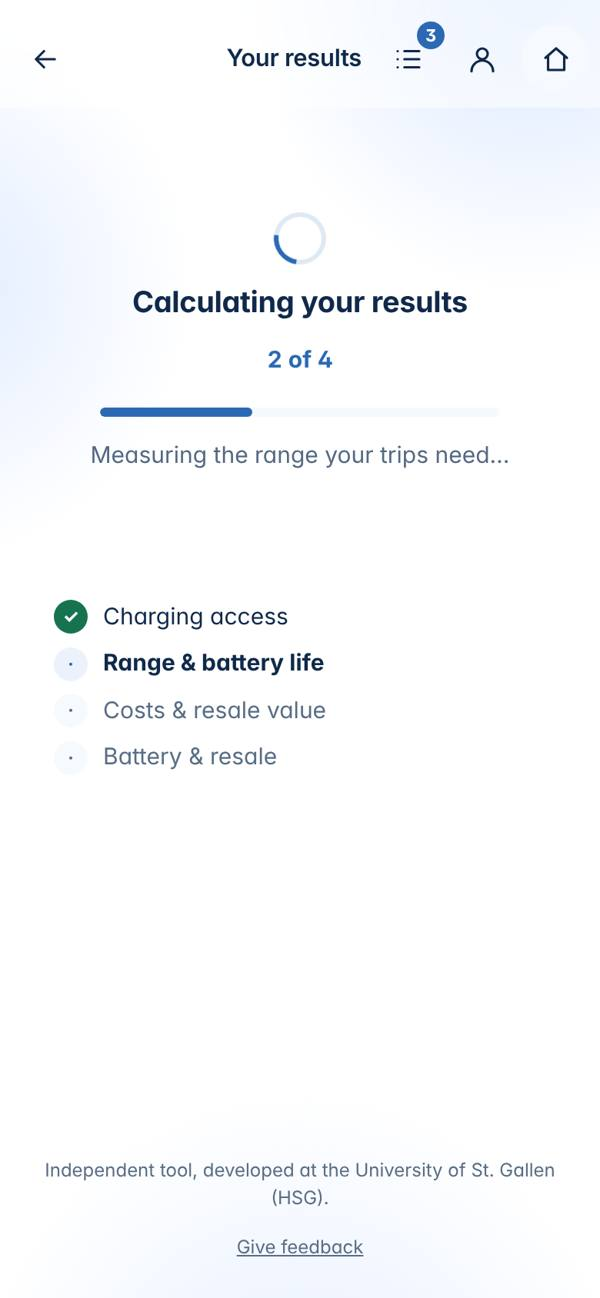
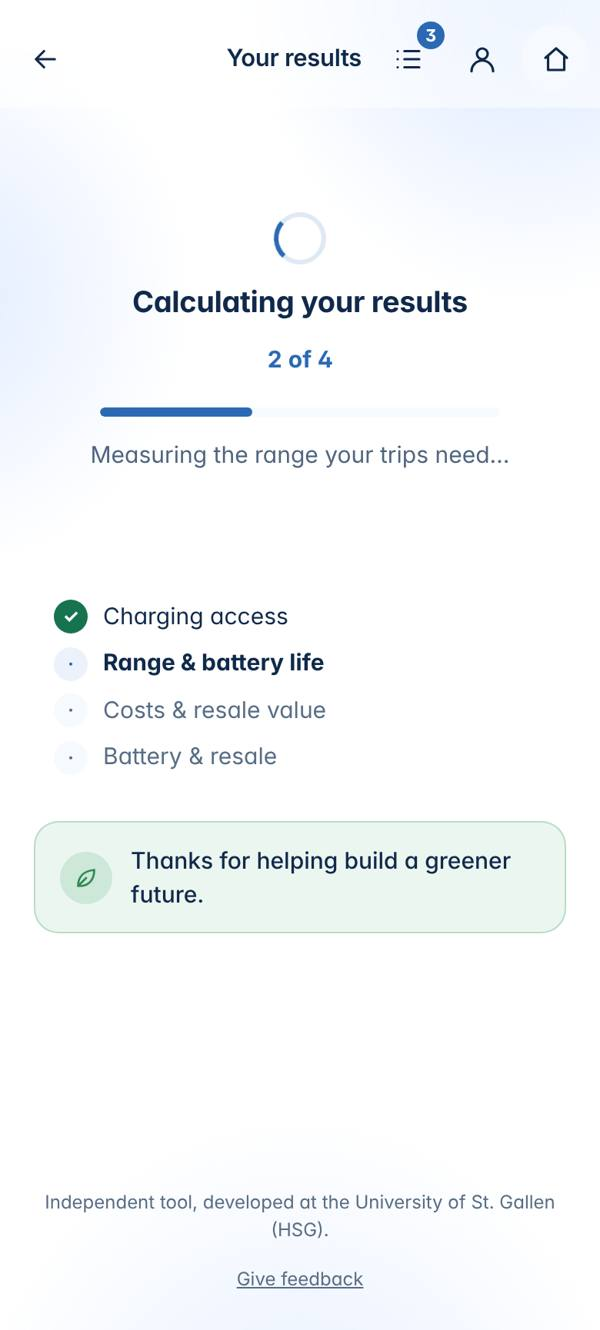
V8.10: positive leaf note while calculating (Christian)
Claude-Session: https://claude.ai/code/session_01QfXkZPsFQrszAqzjhxXKhu

diff --git a/public/index.html b/public/index.html
@@ -1142,6 +1142,12 @@ details.editp > summary { font-size: 15.5px; }
 .action .go { margin-left: auto; color: var(--accent); display: grid; place-items: center; }
 .action .go svg { width: 16px; height: 16px; }
 /* loading */
+.greennote { display: flex; gap: 12px; align-items: center; margin: 8px auto 0; max-width: 460px; padding: 14px 16px; border-radius: 16px; background: color-mix(in srgb, #2e9d5b 9%, var(--card, #fff)); border: 1px solid color-mix(in srgb, #2e9d5b 28%, transparent); }
+.greennote .gi { flex: none; width: 34px; height: 34px; border-radius: 50%; display: grid; place-items: center; background: color-mix(in srgb, #2e9d5b 16%, transparent); color: #2e8a52; }
+.greennote .gi svg { width: 18px; height: 18px; }
+.greennote p { margin: 0; font-size: 15px; line-height: 1.45; color: var(--ink); font-weight: 550; text-align: left; transition: opacity .26s ease; }
+.greennote p b { color: var(--ink); font-weight: 650; }
+.greennote p.out { opacity: 0; }
 .loading .lcount { margin: 0; font-weight: 650; color: var(--accent); font-variant-numeric: tabular-nums; }
 .loading .lphrase { margin: 0; color: var(--ink-2); min-height: 1.4em; animation: lfade 2.4s var(--ease) infinite alternate; }
 @keyframes lfade { from { opacity: .55; } to { opacity: 1; } }
@@ -2205,6 +2211,16 @@ const QUICK_SESSION = { B2: { charging_interest: ['everyday'] }, B6: { battery_e
 const LOAD_MORE = ['Calculating your result…', 'Still on it, this one takes a few seconds…', 'Almost there…'];
 /** While a topic is calculated the sentence under the title changes every few seconds (no re-render). */
 const Waiting = { t: null, i: 0, start(el) { clearInterval(Waiting.t); Waiting.i = 0; Waiting.t = setInterval(() => { const p = document.querySelector('.lphrase'); if (!p || !['loading', 'batch'].includes(ui.view)) return clearInterval(Waiting.t); p.textContent = LOAD_MORE[Math.min(Waiting.i++, LOAD_MORE.length - 1)]; }, 4500); } };
+/** Christian 19.11: something positive while it calculates – leaf note, changes every few seconds. */
+// the status stays above (spinner, topic, step); the box carries only the positive line, so it never says "almost done" too early
+const GREEN_NOTES = ['Thanks for helping build a greener future.', 'Every EV on the road makes the air a little cleaner.', 'Great that you’re thinking green!'];
+const GreenNote = { i: 0, t: null,
+  el() { const n = GREEN_NOTES[GreenNote.i % GREEN_NOTES.length]; queueMicrotask(GreenNote.start);
+    return h('div', { class: 'greennote', id: 'greennote', 'aria-live': 'polite' }, h('span', { class: 'gi' }, icon('leaf')), h('p', null, n)); },
+  start() { if (GreenNote.t) return; GreenNote.t = setInterval(() => {
+    const box = document.getElementById('greennote'); if (!box || !['loading', 'batch'].includes(ui.view)) { clearInterval(GreenNote.t); GreenNote.t = null; return; }
+    GreenNote.i++; const n = GREEN_NOTES[GreenNote.i % GREEN_NOTES.length]; const p = box.querySelector('p');
+    p.classList.add('out'); setTimeout(() => { p.textContent = n; p.classList.remove('out'); }, 260); }, 4200); } };
 const LOAD_PHRASE = { B1: 'Measuring the range your trips need…', B2: 'Looking for charging stations near you…', B3: 'Adding up what the car costs you…', B4: 'Matching car sizes to your trips…', B6: 'Forecasting how the battery ages…', B7: 'Counting the CO2 over the whole life of the car…' };
 async function runAll(codes, opts = {}) {
   const myRev = ++store.rev;
@@ -2240,7 +2256,7 @@ function viewBatch() {
     b.writing ? h('p', { class: 'lphrase' }, 'Writing your summary…') : cur ? h('p', { class: 'lphrase' }, LOAD_PHRASE[cur] || 'One moment…') : null),
     h('ul', { class: 'batchlist' }, b.codes.map((c) => h('li', { class: b.done.includes(c) ? (b.need.includes(c) ? 'need' : 'on') : c === cur ? 'now' : '' },
       h('span', null, b.done.includes(c) ? (b.need.includes(c) ? '!' : '✓') : '·'), topicTitle(c)))),
-    null);
+    GreenNote.el());
 }
 
 /* ---------- loading / error ---------- */
@@ -2256,7 +2272,7 @@ function viewLoading() {
   return h('div', { class: 'col' }, h('div', { class: 'loading', role: 'status', 'aria-live': 'polite' },
     h('div', { class: 'spinner' }), h('h2', null, 'Calculating ' + (b ? b.title.toLowerCase() : 'your result')),
     h('p', { class: 'lphrase', id: 'load-msg' }, LOAD_PHRASE[ui.barrier] || 'One moment…')),
-    h('div', { class: 'card flat' }, h('div', { class: 'skel', style: { width: '70%' } }), h('div', { class: 'skel', style: { width: '90%' } }), h('div', { class: 'skel', style: { width: '55%' } })));
+    GreenNote.el());
 }
 function viewError() {
   const e = ui.error || {};

diff --git a/ui-loop/SCREENS.md b/ui-loop/SCREENS.md
@@ -37,11 +37,11 @@ Delete my answers
 Assistant
 Today
 Hi! Ask me anything about this page or your results.
-17:57
+18:11
 Can I charge at work?
-17:57
+18:11
 Yes. Your employer has no charger yet, but 3 public stations are within 500 m of your office. A normal charger there costs about CHF 7 per 100 km.
-17:57
+18:11
 Do the whole check here in the chat
 What can the Navigator tell me?
 ```
@@ -51,11 +51,11 @@ What can the Navigator tell me?
 Assistant
 Today
 Hi! Ask me anything about this page or your results.
-17:57
+18:11
 I want to know my ideal car. I drive 80 km a day to work and live in Tesserete.
-17:57
+18:11
 I'll ask a few short questions here in the chat.
-17:57
+18:11
 Noted: home 6950 Tesserete (Capriasca) TI, commute 80 km one way, work 8050. You can change it later.
 Checking: Lifestyle match
 Which car do you drive today?
@@ -65,7 +65,7 @@ I know the type-approval number
 I don't have a car
 Next
 Or write your answer below.
-17:57
+18:11
 Stop the check
 ```
 
@@ -74,19 +74,19 @@ Stop the check
 Assistant
 Today
 Hi! Ask me anything about this page or your results.
-17:57
+18:11
 I want to know my ideal car. I drive 80 km a day to work and live in Tesserete.
-17:57
+18:11
 I'll ask a few short questions here in the chat.
-17:57
+18:11
 Noted: home 6950 Tesserete (Capriasca) TI, commute 80 km one way, work 8050. You can change it later.
 Checking: Lifestyle match
 Which car do you drive today? ✓
-17:57
+18:11
 Your results are ready.
-17:57
+18:11
 Open your summary
-17:57
+18:11
 Do the whole check here in the chat
 What can the Navigator tell me?
 ```
@@ -432,6 +432,7 @@ Show my result
 Charging access
 Calculating charging access
 Looking for charging stations near you…
+Thanks for helping build a greener future.
 ```
 
 ## batch
@@ -448,6 +449,7 @@ Range & battery life
 Costs & resale value
 ·
 Battery & resale
+Thanks for helping build a greener future.
 ```
 
 ## error

diff --git a/ui-loop/DECISIONS.md b/ui-loop/DECISIONS.md
@@ -46,3 +46,4 @@
 - Charging question: "Let's talk charging" + subline "Which situation is on your mind?".
 - Charging key sentence worded positively: no fixed parking → "No fixed parking space? No problem. Public charging is close by."
 - Charging result: the map ("Your charging options") is the only block on the page; cost ranking, home and work blocks, charging times, long trips and abroad are in the Full analysis dropdown. Next steps (emails, BFE map) stay.
+- While calculating (one topic or all): a green box with a leaf and one positive line, changing every ~4 s ("Thanks for helping build a greener future." / "Every EV on the road makes the air a little cleaner." / "Great that you're thinking green!"). Christian's lead-ins ("Almost done…" etc.) are left out: the status is already above, and "Almost done" would appear too early. Replaces the grey placeholder bars.
